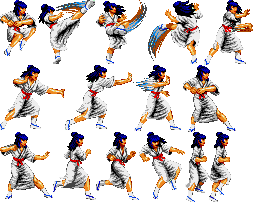
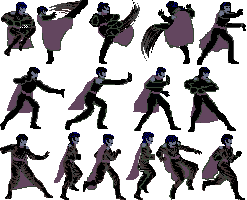
commit from development repository. Adds new player sprites, code cleanup, paralex backgrounds

diff --git a/js/GameWorld.js b/js/GameWorld.js
@@ -2,13 +2,11 @@
     constructor() {
         game.physics.startSystem(Phaser.Physics.ARCADE);
         this.player = new Player();
-
+        this.paralex = [];
         this.map = game.add.tilemap('map');
         this.layer = this.map.createLayer('Tile Layer 1');
         this.map.visible = false;
         this.layer.visible = false;
-
-        this.stars = new CollidableGroup(5, 'star', starFactory);
         this.enemies = new CollidableGroup(10, 'enemies', enemyFactory);
         console.log("GameWorld Instantiated.");
     }
@@ -16,38 +14,65 @@
     update() {
         this.player.update();
         this.enemies.updateGroup();
-        this.stars.updateGroup();
+        this.paralex.forEach(sprite => sprite.update(sprite));
     }
 
     cleanup() {
-        this.stars.destroyGroup();
         this.enemies.destroyGroup();
+        this.paralex.forEach(sprite => sprite.kill());
     }
 
     createMap1() {
         this.map = game.add.tilemap('map');
         this.map.addTilesetImage('jungle tileset');
-
         this.map.setCollisionBetween(41, 82, 120);
         this.layer = this.map.createLayer('Tile Layer 1');
         this.map.visible = true;
         this.layer.visible = true;
-
         this.layer.resizeWorld();
         game.world.sendToBack(this.map);
         game.world.sendToBack(this.layer);
+        this.createParalexBackground();
     }
-}
 
-function starFactory(sprite) {
-    sprite.entity = new Entity();
-    sprite.entity.addControl(followPlayerControl);
+    createParalexBackground() {
+        // Needs refactoring to follow DRY principle
+        for (var i = -3; i < 3; i++) {
+            var sprite = game.add.sprite(799 * i, 0, 'Paralex1');
+            sprite.update = function () { if (game.cameraMovingLeft) { this.x -= 0.4 } if (game.cameraMovingRight) { this.x += 0.4 } }
+            game.world.sendToBack(sprite);
+            this.paralex.push(sprite);
+        }
+        for (var i = -3; i < 3; i++) {
+            var sprite = game.add.sprite(799 * i, 0, 'Paralex2');
+            sprite.update = function () { if (game.cameraMovingLeft) { this.x -= 0.6 } if (game.cameraMovingRight) { this.x += 0.6 } }
+            game.world.sendToBack(sprite);
+            this.paralex.push(sprite);
+        }
+        for (var i = -3; i < 3; i++) {
+            var sprite = game.add.sprite(799 * i, 0, 'Paralex3');
+            sprite.update = function () { if (game.cameraMovingLeft) { this.x -= 0.8 } if (game.cameraMovingRight) { this.x += 0.8 } }
+            game.world.sendToBack(sprite);
+            this.paralex.push(sprite);
+        }
+        for (var i = -3; i < 3; i++) {
+            var sprite = game.add.sprite(799 * i, 0, 'Paralex4');
+            sprite.update = function () { if (game.cameraMovingLeft) { this.x -= 1 } if (game.cameraMovingRight) { this.x += 1 } }
+            game.world.sendToBack(sprite);
+            this.paralex.push(sprite);
+        }
+        for (var i = -3; i < 3; i++) {
+            var sprite = game.add.sprite(799 * i, 0, 'Paralex5');
+            sprite.update = function () { }
+            game.world.sendToBack(sprite);
+            this.paralex.push(sprite);
+        }
+    }
 }
 
 function enemyFactory(sprite) {
     sprite.entity = new Entity();
     sprite.entity.addControl(followPlayerControl);
-    //sprite.entity.addControl(jumpAttackControl);
     sprite.entity.addControl(attackControl);
     sprite.entity.addControl(cooldownControl);
     sprite.entity.addControl(deathControl);

diff --git a/js/GameController.js b/js/GameController.js
@@ -14,6 +14,10 @@
     game.currentWave = 0;
     game.enemiesAlive = 0;
     game.waveActive = false;
+
+    game.cameraMovingLeft = false;
+    game.cameraMovingRight = false;
+    game.cameraLastX = 0;
 }
 
 function preload() {
@@ -22,6 +26,11 @@ function preload() {
     game.load.spritesheet('enemy', 'Assets/Enemies/baddie.png', 32, 32);
     game.load.image('SplashScreen', 'Assets/Screens/SplashScreen.png');
     game.load.image('star', 'Assets/Collectibles/star.png');
+    game.load.image('Paralex1', 'Assets/Backgrounds/Paralex1.png');
+    game.load.image('Paralex2', 'Assets/Backgrounds/Paralex2.png');
+    game.load.image('Paralex3', 'Assets/Backgrounds/Paralex3.png');
+    game.load.image('Paralex4', 'Assets/Backgrounds/Paralex4.png');
+    game.load.image('Paralex5', 'Assets/Backgrounds/Paralex5.png');
     game.load.image('HUD', 'Assets/HUD/HUD.png');
     game.load.image('LeftButton', 'Assets/HUD/LeftButton.png');
     game.load.image('RightButton', 'Assets/HUD/RightButton.png');
@@ -58,6 +67,21 @@ function update() {
     handleCollisions();
     gameWorld.update();
     waveManager();
+
+    // Keep track of the cameras movements to allow paralex scrolling of the in game backgrounds
+    if (game.cameraLastX > game.camera.x) {
+        game.cameraMovingLeft = true;
+        game.cameraMovingRight = false;
+        game.cameraLastX = game.camera.x;
+    } else if (game.cameraLastX < game.camera.x) {
+        game.cameraMovingLeft = false;
+        game.cameraMovingRight = true;
+        game.cameraLastX = game.camera.x;
+    }
+    else if (game.cameraLastX == game.camera.x) {
+        game.cameraMovingLeft = false;
+        game.cameraMovingRight = false;
+    }
 }
 
 function resetGame() {
@@ -149,9 +173,7 @@ function handleCollisions() {
     // These collisions make the sprites collide with one another so they may not overlap
     game.physics.arcade.collide(gameWorld.player.sprite, gameWorld.layer);
     game.physics.arcade.collide(gameWorld.enemies.group, gameWorld.layer);
-
     // These collisions detect if sprites have overlapped and passes those sprites to a method to further handle the outcome
-    game.physics.arcade.overlap(gameWorld.player.sprite, gameWorld.stars.group, collectStar);
     game.physics.arcade.overlap(gameWorld.player.sprite, gameWorld.enemies.group, enemyPlayerCollision);
 }
 

diff --git a/js/Player.js b/js/Player.js
@@ -16,7 +16,6 @@
         playerSprite.animations.add('damaged', ['damaged.png'], 5, false);
         playerSprite.health = 100;
         playerSprite.damage = 2;
-
         playerSprite.takingDamage = false;
         playerSprite.attacking = false;
         playerSprite.attackCounter = 0;
@@ -25,7 +24,6 @@
         playerSprite.facingRight = true;
         playerSprite.attackCounterTimer = game.time.create(false);
         playerSprite.visible = false;
-
         playerSprite.leftButton = false;
         playerSprite.rightButton = false;
 
@@ -85,7 +83,6 @@
         }
     }
 
-
     death() {
         sceneManager("GameOver");
     }
@@ -106,7 +103,6 @@
     }
 
     moveLeft() {
-        console.log("Moving Left <--")
         this.sprite.body.velocity.x = -150;
         if (!this.sprite.jumping) {
             this.sprite.animations.play('run');
@@ -127,7 +123,6 @@
     }
 
     attack() {
-        console.log(this.sprite);
         if (!this.sprite.attacking && !this.sprite.takingDamage) {
             this.sprite.attackCounterTimer.stop();
             this.sprite.jumping = false;
@@ -167,7 +162,6 @@
     jump() {
         if (!this.sprite.jumping && !this.sprite.attacking && !this.sprite.takingDamage) {
             this.sprite.jumping = true;
-            console.log("Jump!")
             this.sprite.animations.play('jump');
             this.sprite.animations.currentAnim.onComplete.add(function () { this.sprite.jumping = false; }, this);
             this.sprite.body.velocity.y = -400;
@@ -176,20 +170,5 @@
 
     idle() {
         this.sprite.animations.play('idle');
-    }
-
-    activateHoldButton(button, bool) {
-        if (bool) {
-            switch (button) {
-                case "Left": {
-                    this.moveLeft();
-                    break;
-                }
-                case "Right": {
-                    this.moveRight();
-                    break;
-                }
-            }
-        }
     }
 }

diff --git a/js/Entities.js b/js/Entities.js
@@ -32,22 +32,6 @@ class CollidableGroup {
         this.group = group;
     }
 
-    createStar(x, y, scaleX, scaleY) {
-        // get the first sprite in the group that is not in use
-        const star = this.group.getFirstExists(false);
-        if (star) {
-            // reset the x and y of the sprite and set the scale
-            star.reset(x, y);
-            star.scale.setTo(scaleX, scaleY);
-            star.anchor.setTo(0.5, 0.5);
-            //give the sprite some gravity and a random bounce value
-            star.body.gravity.y = 300;
-            star.body.bounce.y = 0.7 + Math.random() * 0.2;
-            star.following = true;
-            star.speed = 50;
-        }
-    }
-
     createEnemy(x, y, scaleX, scaleY) {
         console.log("Creating enemy");
         // get the first sprite in the group that is not in use

diff --git a/js/Controls.js b/js/Controls.js
@@ -1,8 +1,4 @@
 
-function testControl(sprite) {
-    console.log("Test Control running...");
-}
-
 function followPlayerControl(sprite) {
     if (sprite.following) {
         // if the player sprite x coordinate is higher than this sprites x coordinate
